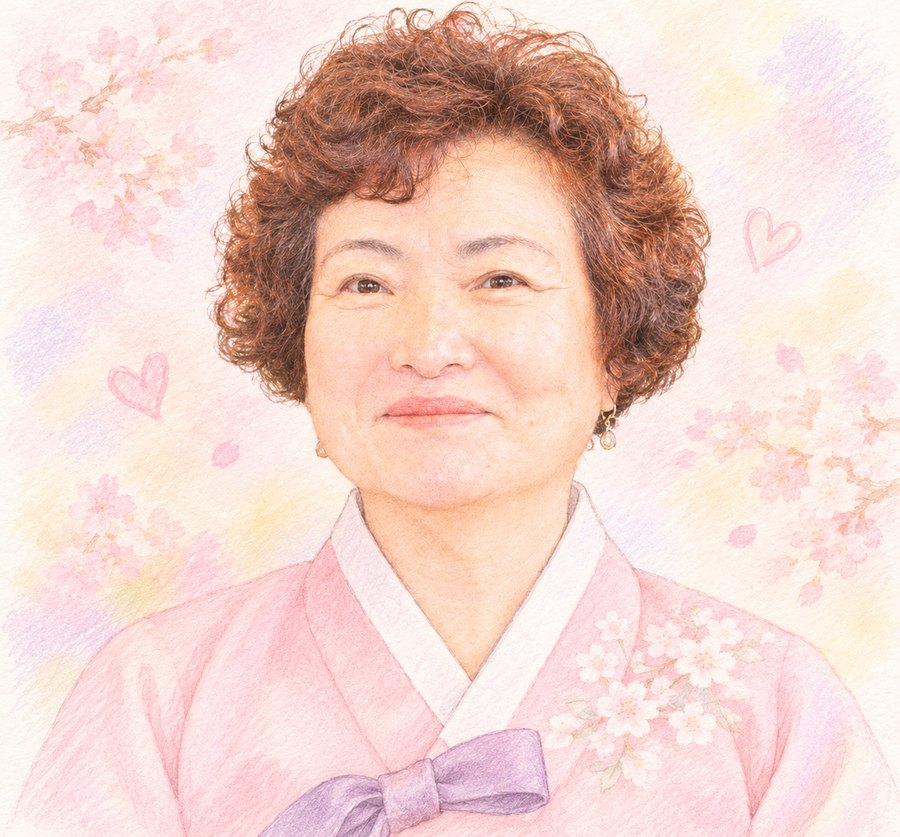
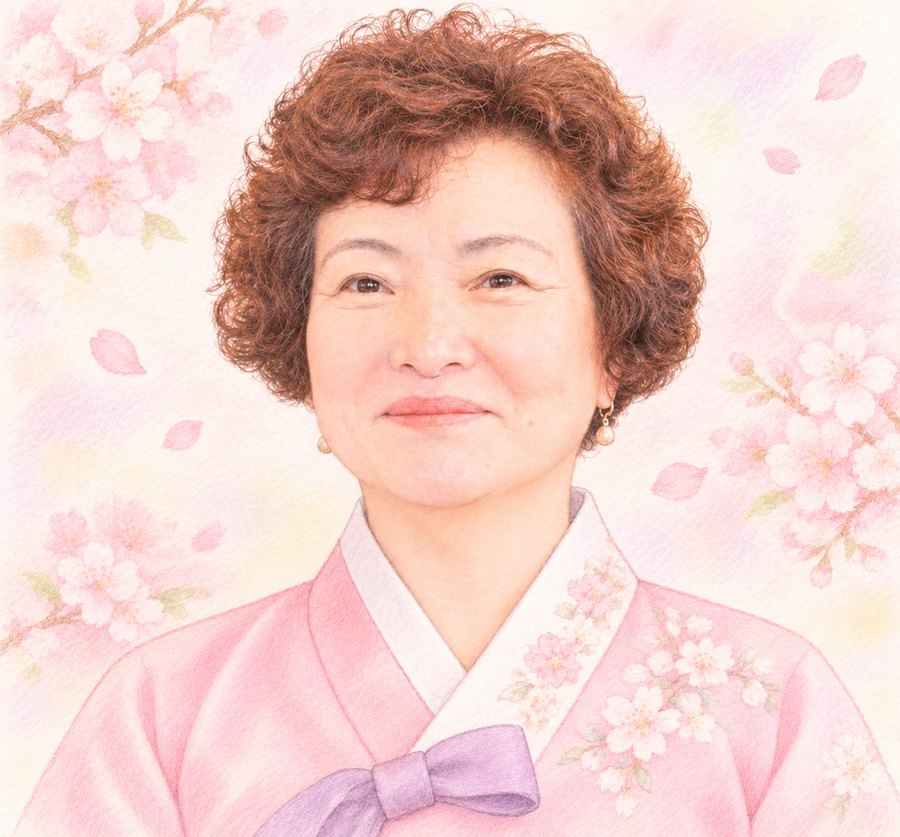
파스텔 버전 한복 그림 교체
Claude-Session: https://claude.ai/code/session_011S7AqBBdpx5KTsetDfisQs

diff --git a/pastel/index.html b/pastel/index.html
@@ -9,7 +9,7 @@
 <meta property="og:description" content="2026년 11월 14일 토요일 오후 6시 · 삼청각 모란 룸">
 <meta property="og:type" content="website">
 <meta property="og:url" content="https://darkrubyeye.github.io/mom70/pastel/">
-<meta property="og:image" content="https://darkrubyeye.github.io/mom70/pastel/og.png">
+<meta property="og:image" content="https://darkrubyeye.github.io/mom70/pastel/og-v2.png">
 <meta property="og:image:width" content="1200">
 <meta property="og:image:height" content="630">
 <link rel="preconnect" href="https://fonts.googleapis.com">
@@ -106,7 +106,7 @@
 
   <!-- HERO -->
   <section class="hero">
-    <div class="img"><img src="mom.jpg" alt="한복을 입은 김순옥 여사"></div>
+    <div class="img"><img src="mom.jpg?v=2" alt="한복을 입은 김순옥 여사"></div>
     <div class="hero-text">
       <div class="badge"><span class="n">70th</span><span class="k">古稀宴</span></div>
       <div class="name">김순옥<small>여사</small></div>
